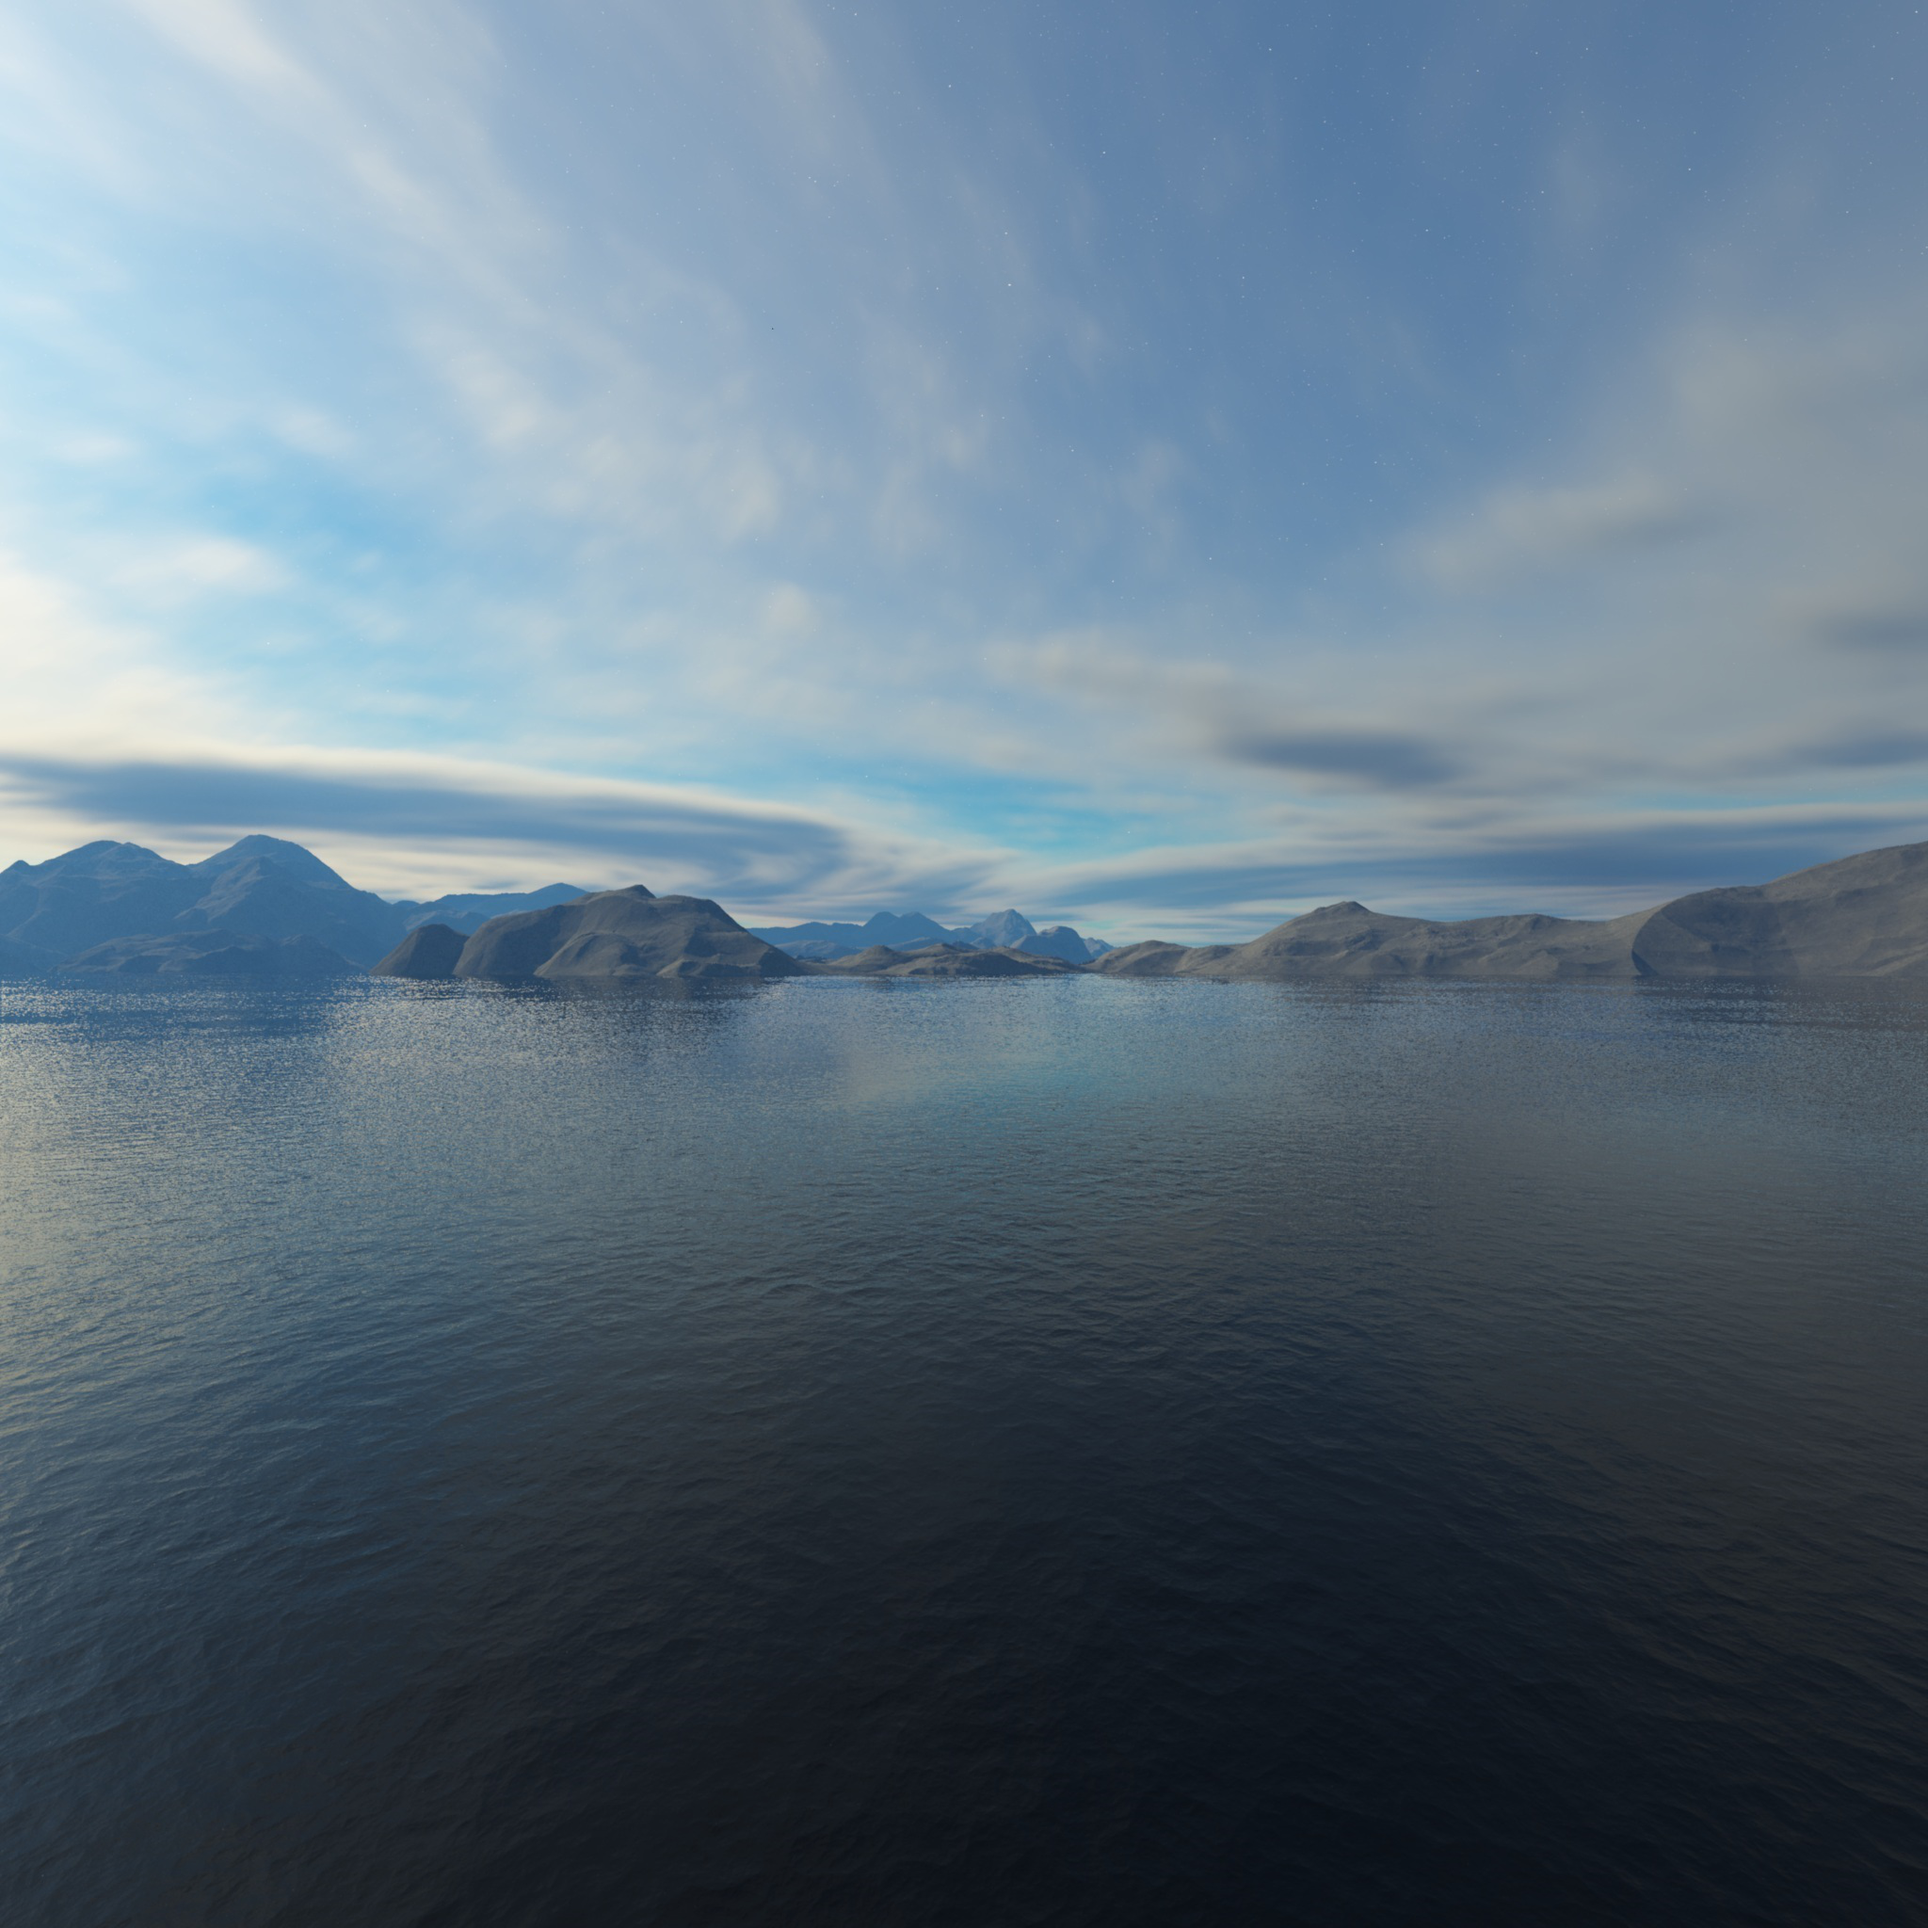
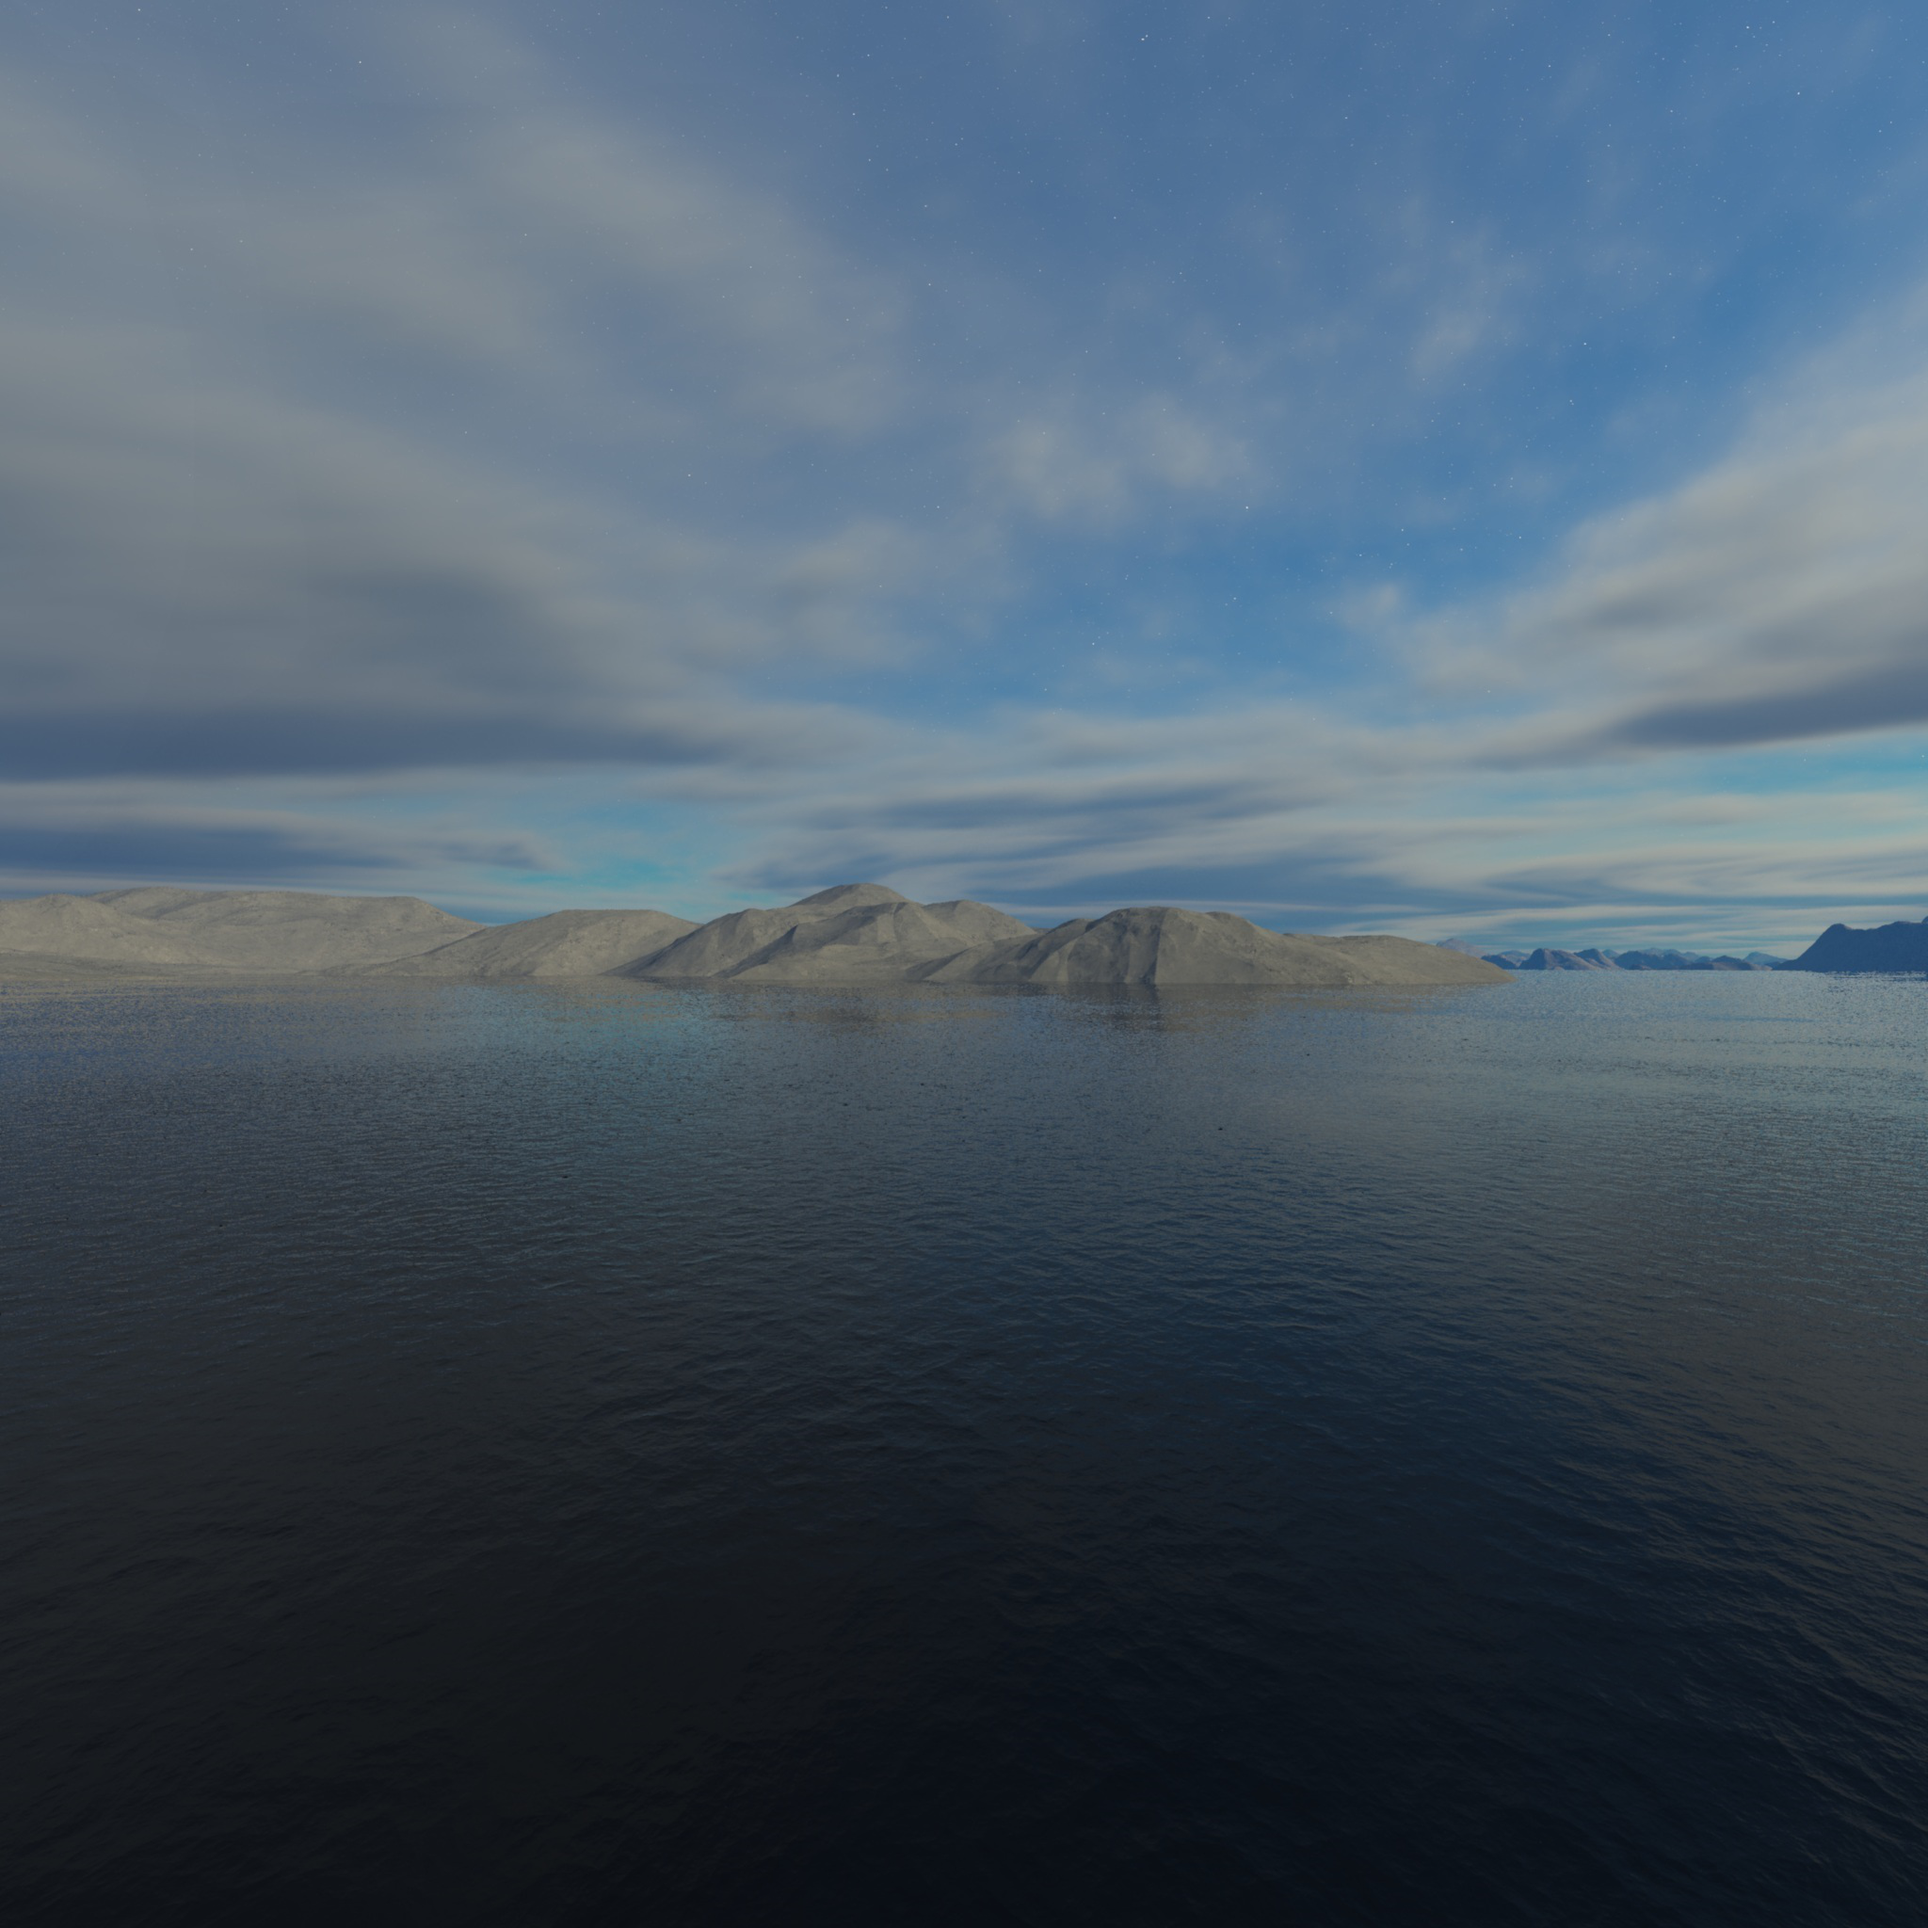
# skybox

diff --git a/SoftRenderProject/SoftRenderProject/Vertex.cpp b/SoftRenderProject/SoftRenderProject/Vertex.cpp
@@ -23,17 +23,17 @@ void Vertex::BarycentricLerp(const Vertex& v1, const Vertex& v2, const Vertex& v
 	uv.x = z * BARCENTRIC_LERP(v1.uv.x, v2.uv.x, v3.uv.x, p1, p2, p3);
 	uv.y = z * BARCENTRIC_LERP(v1.uv.y, v2.uv.y, v3.uv.y, p1, p2, p3);
 
-	normal.x = BARCENTRIC_LERP(v1.normal.x, v2.normal.x, v3.normal.x, p1, p2, p3);
-	normal.y = BARCENTRIC_LERP(v1.normal.y, v2.normal.y, v3.normal.y, p1, p2, p3);
-	normal.z = BARCENTRIC_LERP(v1.normal.z, v2.normal.z, v3.normal.z, p1, p2, p3);
+	normal.x = z * BARCENTRIC_LERP(v1.normal.x, v2.normal.x, v3.normal.x, p1, p2, p3);
+	normal.y = z * BARCENTRIC_LERP(v1.normal.y, v2.normal.y, v3.normal.y, p1, p2, p3);
+	normal.z = z * BARCENTRIC_LERP(v1.normal.z, v2.normal.z, v3.normal.z, p1, p2, p3);
 
-	worldPos.x = BARCENTRIC_LERP(v1.worldPos.x, v2.worldPos.x, v3.worldPos.x, p1, p2, p3);
-	worldPos.y = BARCENTRIC_LERP(v1.worldPos.y, v2.worldPos.y, v3.worldPos.y, p1, p2, p3);
-	worldPos.z = BARCENTRIC_LERP(v1.worldPos.z, v2.worldPos.z, v3.worldPos.z, p1, p2, p3);
+	worldPos.x = z * BARCENTRIC_LERP(v1.worldPos.x, v2.worldPos.x, v3.worldPos.x, p1, p2, p3);
+	worldPos.y = z * BARCENTRIC_LERP(v1.worldPos.y, v2.worldPos.y, v3.worldPos.y, p1, p2, p3);
+	worldPos.z = z * BARCENTRIC_LERP(v1.worldPos.z, v2.worldPos.z, v3.worldPos.z, p1, p2, p3);
 
-	worldNormal.x = BARCENTRIC_LERP(v1.worldNormal.x, v2.worldNormal.x, v3.worldNormal.x, p1, p2, p3);
-	worldNormal.y = BARCENTRIC_LERP(v1.worldNormal.y, v2.worldNormal.y, v3.worldNormal.y, p1, p2, p3);
-	worldNormal.z = BARCENTRIC_LERP(v1.worldNormal.z, v2.worldNormal.z, v3.worldNormal.z, p1, p2, p3);
+	worldNormal.x = z * BARCENTRIC_LERP(v1.worldNormal.x, v2.worldNormal.x, v3.worldNormal.x, p1, p2, p3);
+	worldNormal.y = z * BARCENTRIC_LERP(v1.worldNormal.y, v2.worldNormal.y, v3.worldNormal.y, p1, p2, p3);
+	worldNormal.z = z * BARCENTRIC_LERP(v1.worldNormal.z, v2.worldNormal.z, v3.worldNormal.z, p1, p2, p3);
 
 	normal.Normalize();
 	worldNormal.Normalize();	

diff --git a/SoftRenderProject/SoftRenderProject/Scene.cpp b/SoftRenderProject/SoftRenderProject/Scene.cpp
@@ -16,12 +16,12 @@ void Scene::Init()
 	fbflag = SET_FLAG(fbflag, ENUM_FB_MODE::colorBuffer);	
 	fbflag = SET_FLAG(fbflag, ENUM_FB_MODE::gBuffer);
 	m_pMainCamera->CreateFrameBuffer(pDevice->screenWidth, pDevice->screenHeight, fbflag);
-	m_pMainCamera->SetPosition(Vector3(0, 4, 4));
+	m_pMainCamera->SetPosition(Vector3(0, -2, 4));
 	//m_pMainCamera->SetPosition(Vector3(0, 0, 4));
 	m_pMainCamera->SetLookAt(Vector3(0, 0, 0));
 	//m_pMainCamera->m_position = Vector3(0, 0, 5);
 	//m_pMainCamera->m_lookAt = Vector3(0, 0, -4);
-	m_pMainCamera->SetPerspectiveCameraInfo(60, (float)pDevice->screenWidth / (float)pDevice->screenHeight, 0.1f, 1000);
+	m_pMainCamera->SetPerspectiveCameraInfo(90, (float)pDevice->screenWidth / (float)pDevice->screenHeight, 0.1f, 1000);
 	//m_pMainCamera->SetOrthoCameraInfo(5, (float)pDevice->screenWidth / (float)pDevice->screenHeight, 0.1f, 1000);
 
 	RenderObject* pObj = NULL;

diff --git a/SoftRenderProject/SoftRenderProject/Shaders.cpp b/SoftRenderProject/SoftRenderProject/Shaders.cpp
@@ -33,10 +33,10 @@ Vertex* VSSkyBox::Method(Vertex* pVertex)
 {
 	Matrix4x4 v = *RenderContext::pView;
 	v[3] = v[7] = v[11] = 0;
-	pVertex->position = v.mul(pVertex->position);	
-	pVertex->position = RenderContext::pProj->mul(pVertex->position);
-	//Matrix4x4 vp = (*RenderContext::pProj) * v;
-	//pVertex->position = vp.mul(pVertex->position);	
+	//pVertex->position = v.mul(pVertex->position);	
+	//pVertex->position = RenderContext::pProj->mul(pVertex->position);
+	Matrix4x4 vp = (*RenderContext::pProj) * v;
+	pVertex->position = vp.mul(pVertex->position);	
 	//pVertex->position.z = -pVertex->position.w;
 	return pVertex;
 }

diff --git a/SoftRenderProject/SoftRenderProject/CubeMap.cpp b/SoftRenderProject/SoftRenderProject/CubeMap.cpp
@@ -52,7 +52,7 @@ Color CubeMap::Sample(float x, float y, float z)
 		else
 		{
 			idx = CUBE_MAP_IDX::bottom;
-			u = (u + 1.0) / 2.0;
+			u = (1.0 - u) / 2.0;
 			v = (v + 1.0) / 2.0;
 		}
 	}
